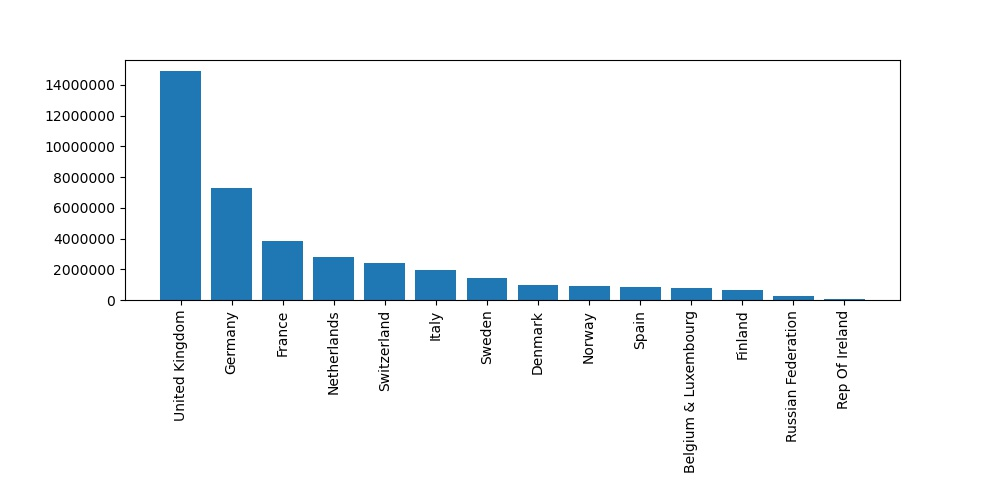
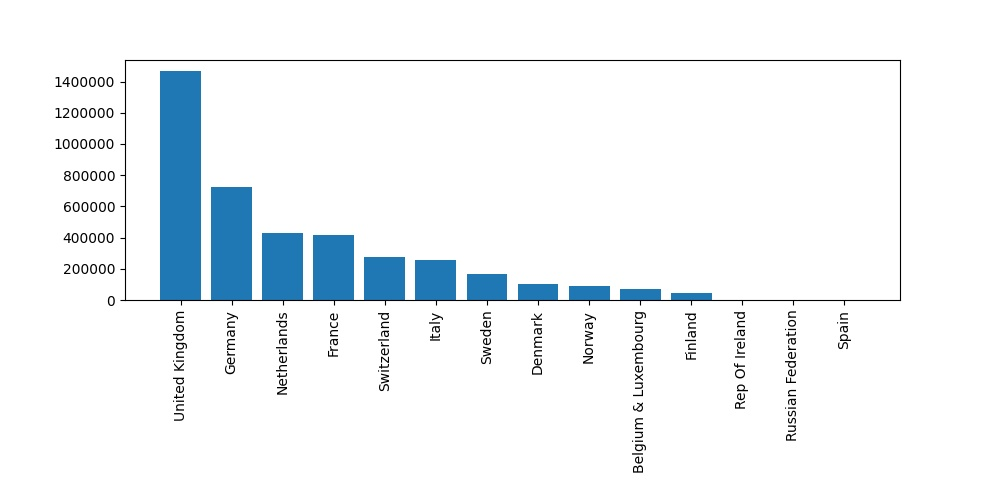
updated

diff --git a/Group6_ASP_Project.py b/Group6_ASP_Project.py
@@ -18,6 +18,11 @@ class CountryVisitors:
     dft = df['Periods'].str.split(' ', n=1, expand=True)
     dft.head()
     print(dft.head(120))
+    df.insert(0, 'Year', dft[0].to_list(), True)
+    df['Year'] = df['Year'].astype(int)
+    df = df[df.Year >= 1978]
+    df = df[df.Year <= 1987]
+    print(df)
 
     countries_list = ['Belgium & Luxembourg', 'Denmark', 'Finland', 'France', 'Germany',
                       'Italy', 'Netherlands', 'Norway', 'Rep Of Ireland',
